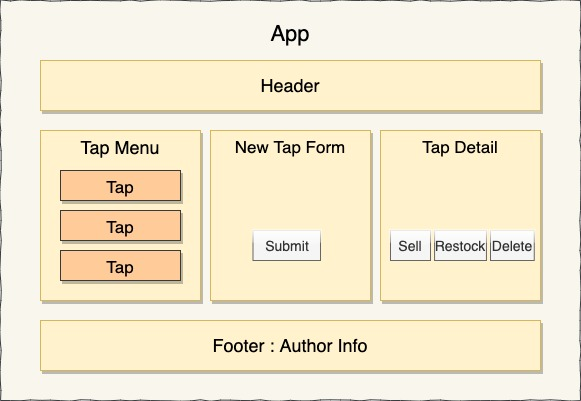
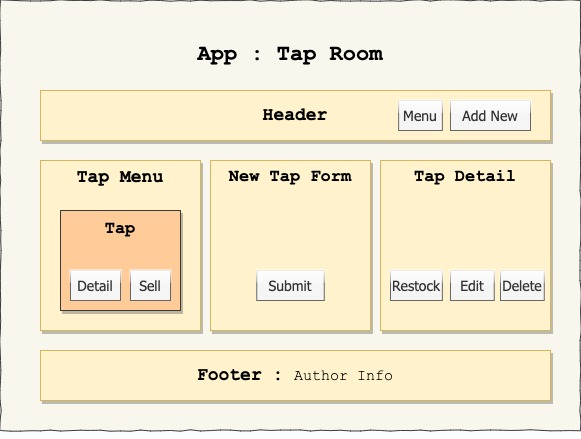
update component diagram and add nav bar

diff --git a/src/components/Header.js b/src/components/Header.js
@@ -3,17 +3,40 @@ import PropTypes from 'prop-types';
 
 function Header(props){
   return (
-    <div className="jumbotron" id="jumbo">
-      <div className="headerText">
-        <h1>TAP ROOM</h1> 
+    <>
+    <div className="container-fluid">
+      <div className="jumbotron" id="jumbo">
+        <div className="headerText">
+          <h1>TAP ROOM</h1> 
+        </div>
+        {/* <div className="button-right">
+          <button onClick={() => props.onClickToHome()} className="btn btn-outline-info">Menu</button>
+          <button onClick={() => props.onClickAddNewTap()} className="btn btn-outline-info">Add New Tap</button>
+        </div> */}
       </div>
-      <div className="button-right">
-        <button onClick={() => props.onClickToHome()} className="btn btn-outline-info">Menu</button>
-        <button onClick={() => props.onClickAddNewTap()} className="btn btn-outline-info">Add New Tap</button>
-      </div>
-    </div>
-  );
 
+      <nav class="navbar navbar-expand-lg navbar-light bg-light">
+        <a class="navbar-brand" onClick={() => props.onClickToHome()}><strong></strong></a>
+        <button class="navbar-toggler" type="button" data-toggle="collapse" data-target="#navbarSupportedContent" aria-controls="navbarSupportedContent" aria-expanded="false" aria-label="Toggle navigation">
+          <span class="navbar-toggler-icon"></span>
+        </button>
+
+        <div class="collapse navbar-collapse" id="navbarSupportedContent">
+          <ul class="navbar-nav mr-auto">
+            <li class="nav-item active">
+              <a class="nav-link" onClick={() => props.onClickToHome()}>Menu <span class="sr-only">(current)</span></a>
+            </li>
+            <li class="nav-item">
+              <a class="nav-link" onClick={() => props.onClickAddNewTap()}>AddNewTap</a>
+            </li>
+          </ul>
+        </div>  
+      </nav>
+    </div>
+    <br></br>
+    <br></br>
+    </>
+  );
 }
 
 Header.prototypes = {

diff --git a/src/components/App.js b/src/components/App.js
@@ -24,7 +24,7 @@ class App extends React.Component {
           brand: "DESCHUTES",
           price: "12",
           abv: "12",
-          pints: 3,
+          pints: 124,
           message:"Enough"
         },
         {
@@ -54,7 +54,7 @@ class App extends React.Component {
           brand: "BRIDGEPORT",
           price: "10.5",
           abv: "10",
-          pints: 124,
+          pints: 3,
           message:"Enough"
         }
       ]
@@ -144,11 +144,9 @@ class App extends React.Component {
       addingTap: false,
       showTabMenu: false
     });
-    console.log(this.state.selectedTap);
   }
 
   handleEditTap = (tapToEdit) => {
-    console.log(this.state.selectedTap);
     const editedNewTapMenu = this.state.masterTapMenu
       .filter(tap => tap.id !== this.state.selectedTap.id)
       .concat(tapToEdit);
@@ -159,6 +157,7 @@ class App extends React.Component {
       showTabMenu: true
     });  
   }
+
 
   setVisibility = () => {
     if (this.state.editingTap) {

diff --git a/src/App.css b/src/App.css
@@ -3,14 +3,19 @@ body {
 }
 
 #jumbo {
-  height: 150px;
+  height: 120px;
   padding-top: 40px;
-  margin: 30px;
+  margin: 0;
+  /* margin: 30px;
   display: flex;
   flex-wrap: wrap;
   justify-content: space-around;
   align-items: center;
-  position: relative;
+  position: relative; */
+}
+
+.navbar {
+  font-size: 1.2em;
 }
 
 .headerText {
@@ -133,7 +138,7 @@ h2 {
   /* font: normal 16px sans-serif; */
   font-weight: bold;
   padding: 25px 30px;
-  margin-top: 100px;
+  margin-top: 60px;
 }
 
 .footer p.footer-links a {

diff --git a/src/components/Footer.js b/src/components/Footer.js
@@ -14,7 +14,7 @@ function Footer(props){
             <a className="link-1" onClick={() => props.onClickToHome()}>Home</a>
             <a href="mailto:jieunkang101@gmail.com">Contact</a>
           </p>
-          <p>Jieun Kang &copy; 2020</p>
+          <p>Copyright &copy; 2020 Jieun Kang</p>
         </div>
       </div>
     </React.Fragment>

diff --git a/src/components/EditTapForm.js b/src/components/EditTapForm.js
@@ -14,7 +14,7 @@ function EditTapForm(props){
   return (
     <React.Fragment>
       <div>
-      <h2>Add New Tap</h2>
+      <h2>Edit This Tap</h2>
       <ReusableForm 
         formSubmissionHandler={handleEditTapFormSubmission}
         buttonText="Add" />
